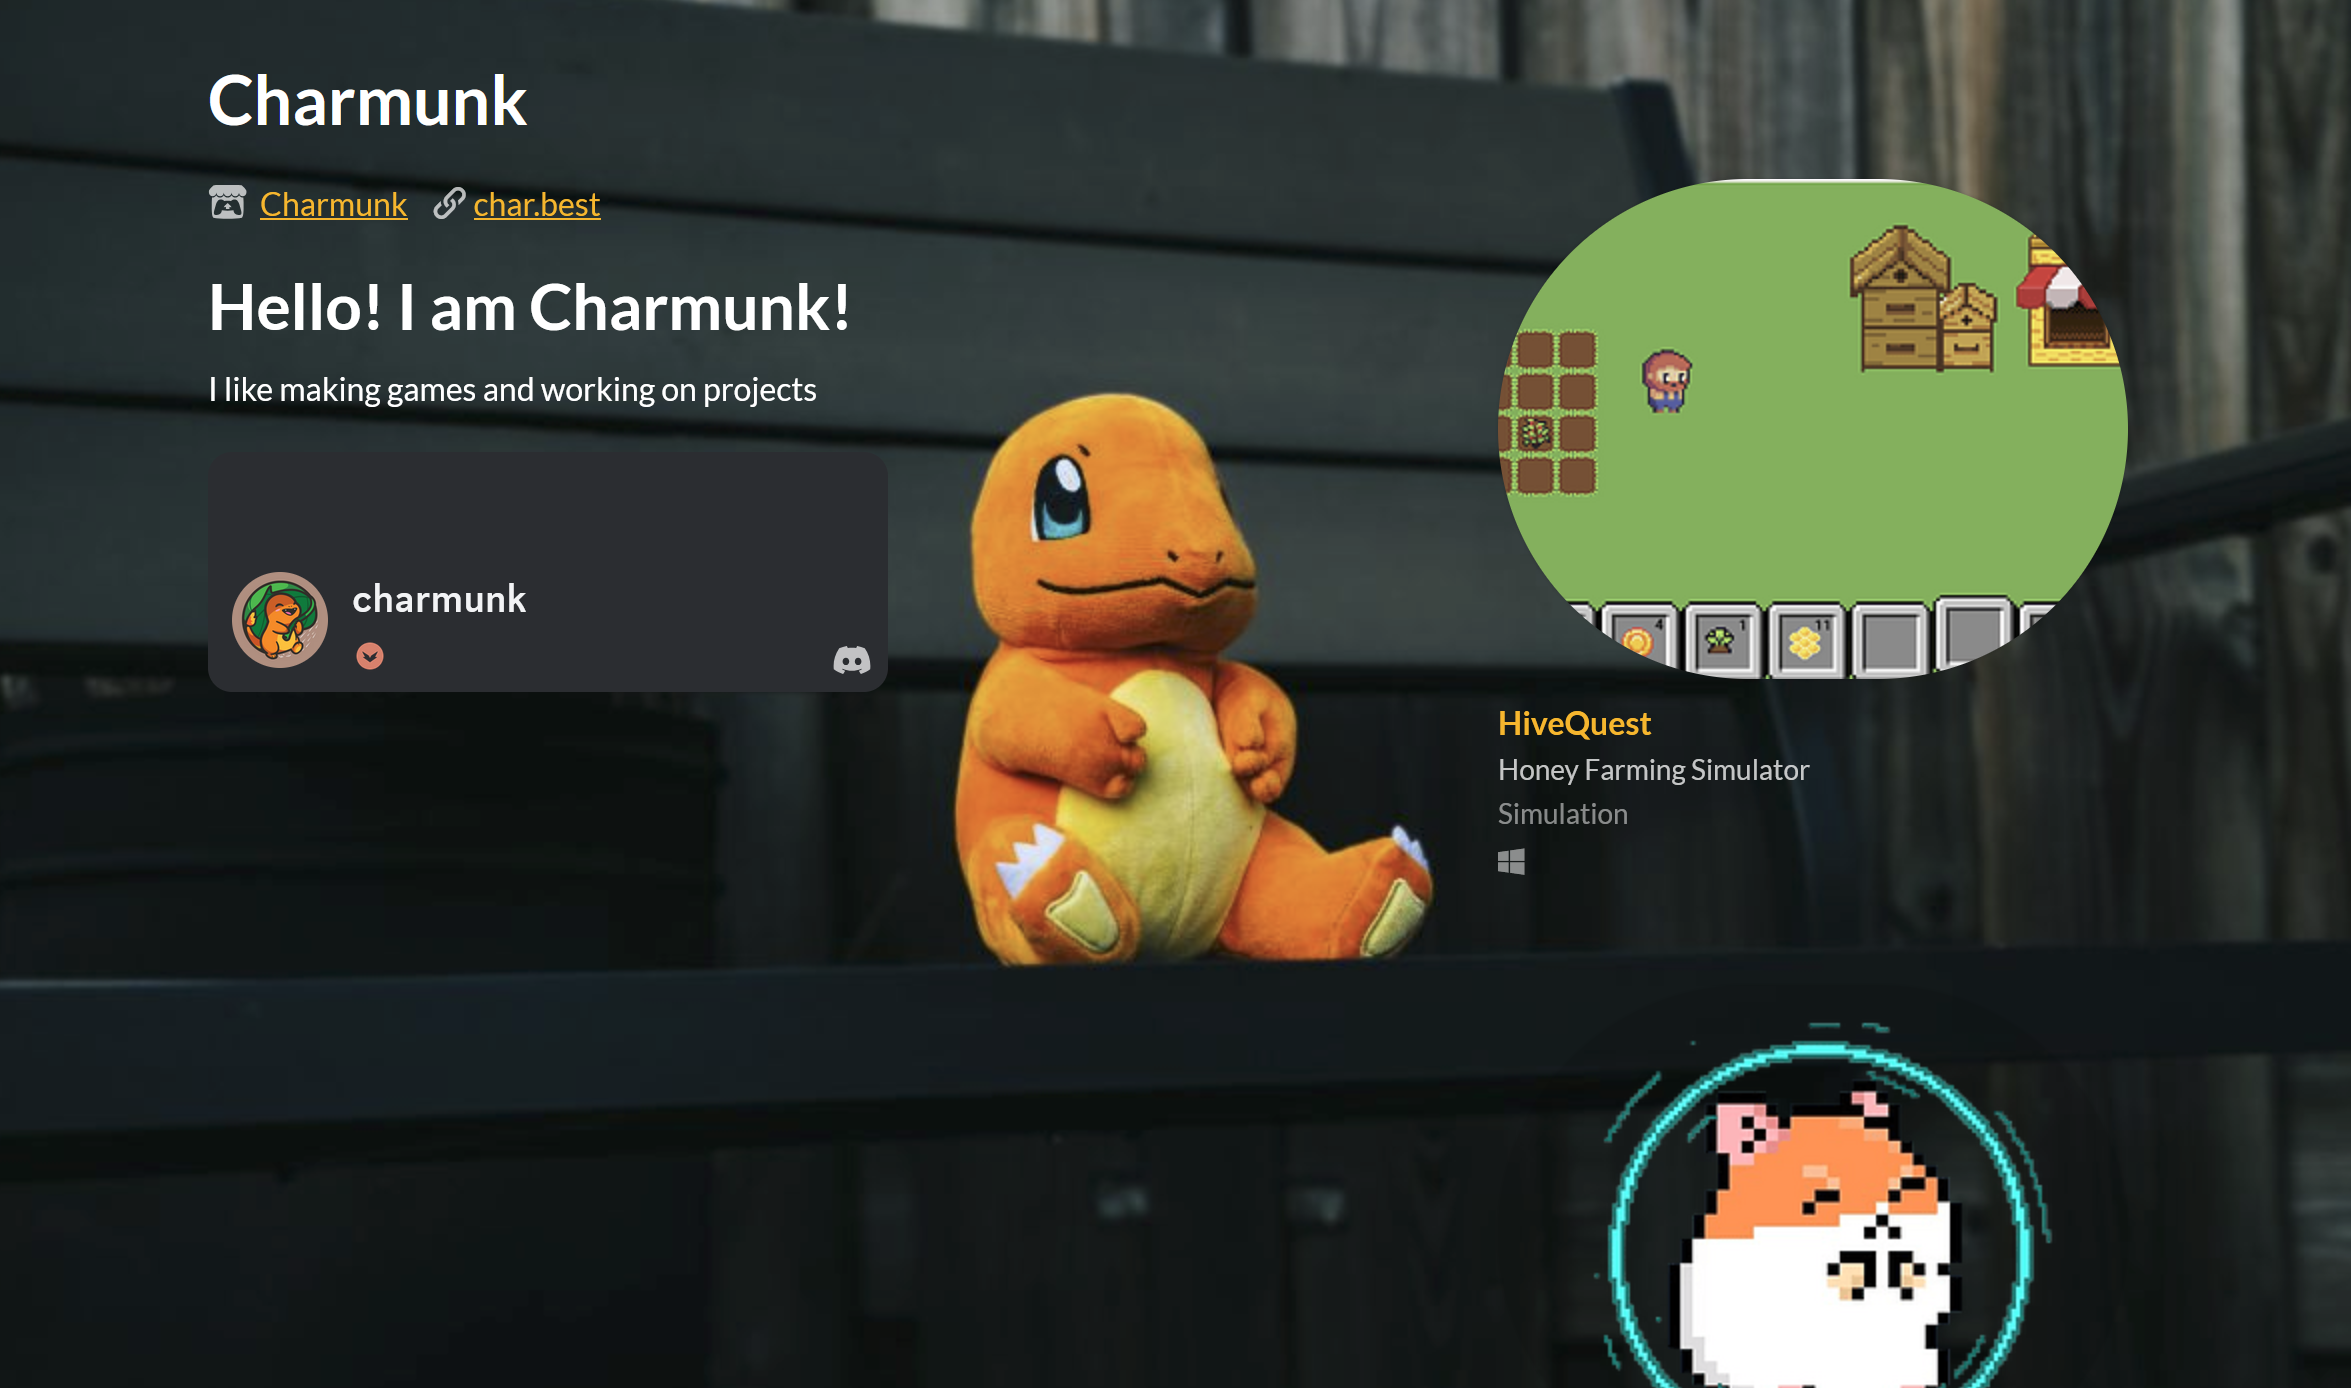
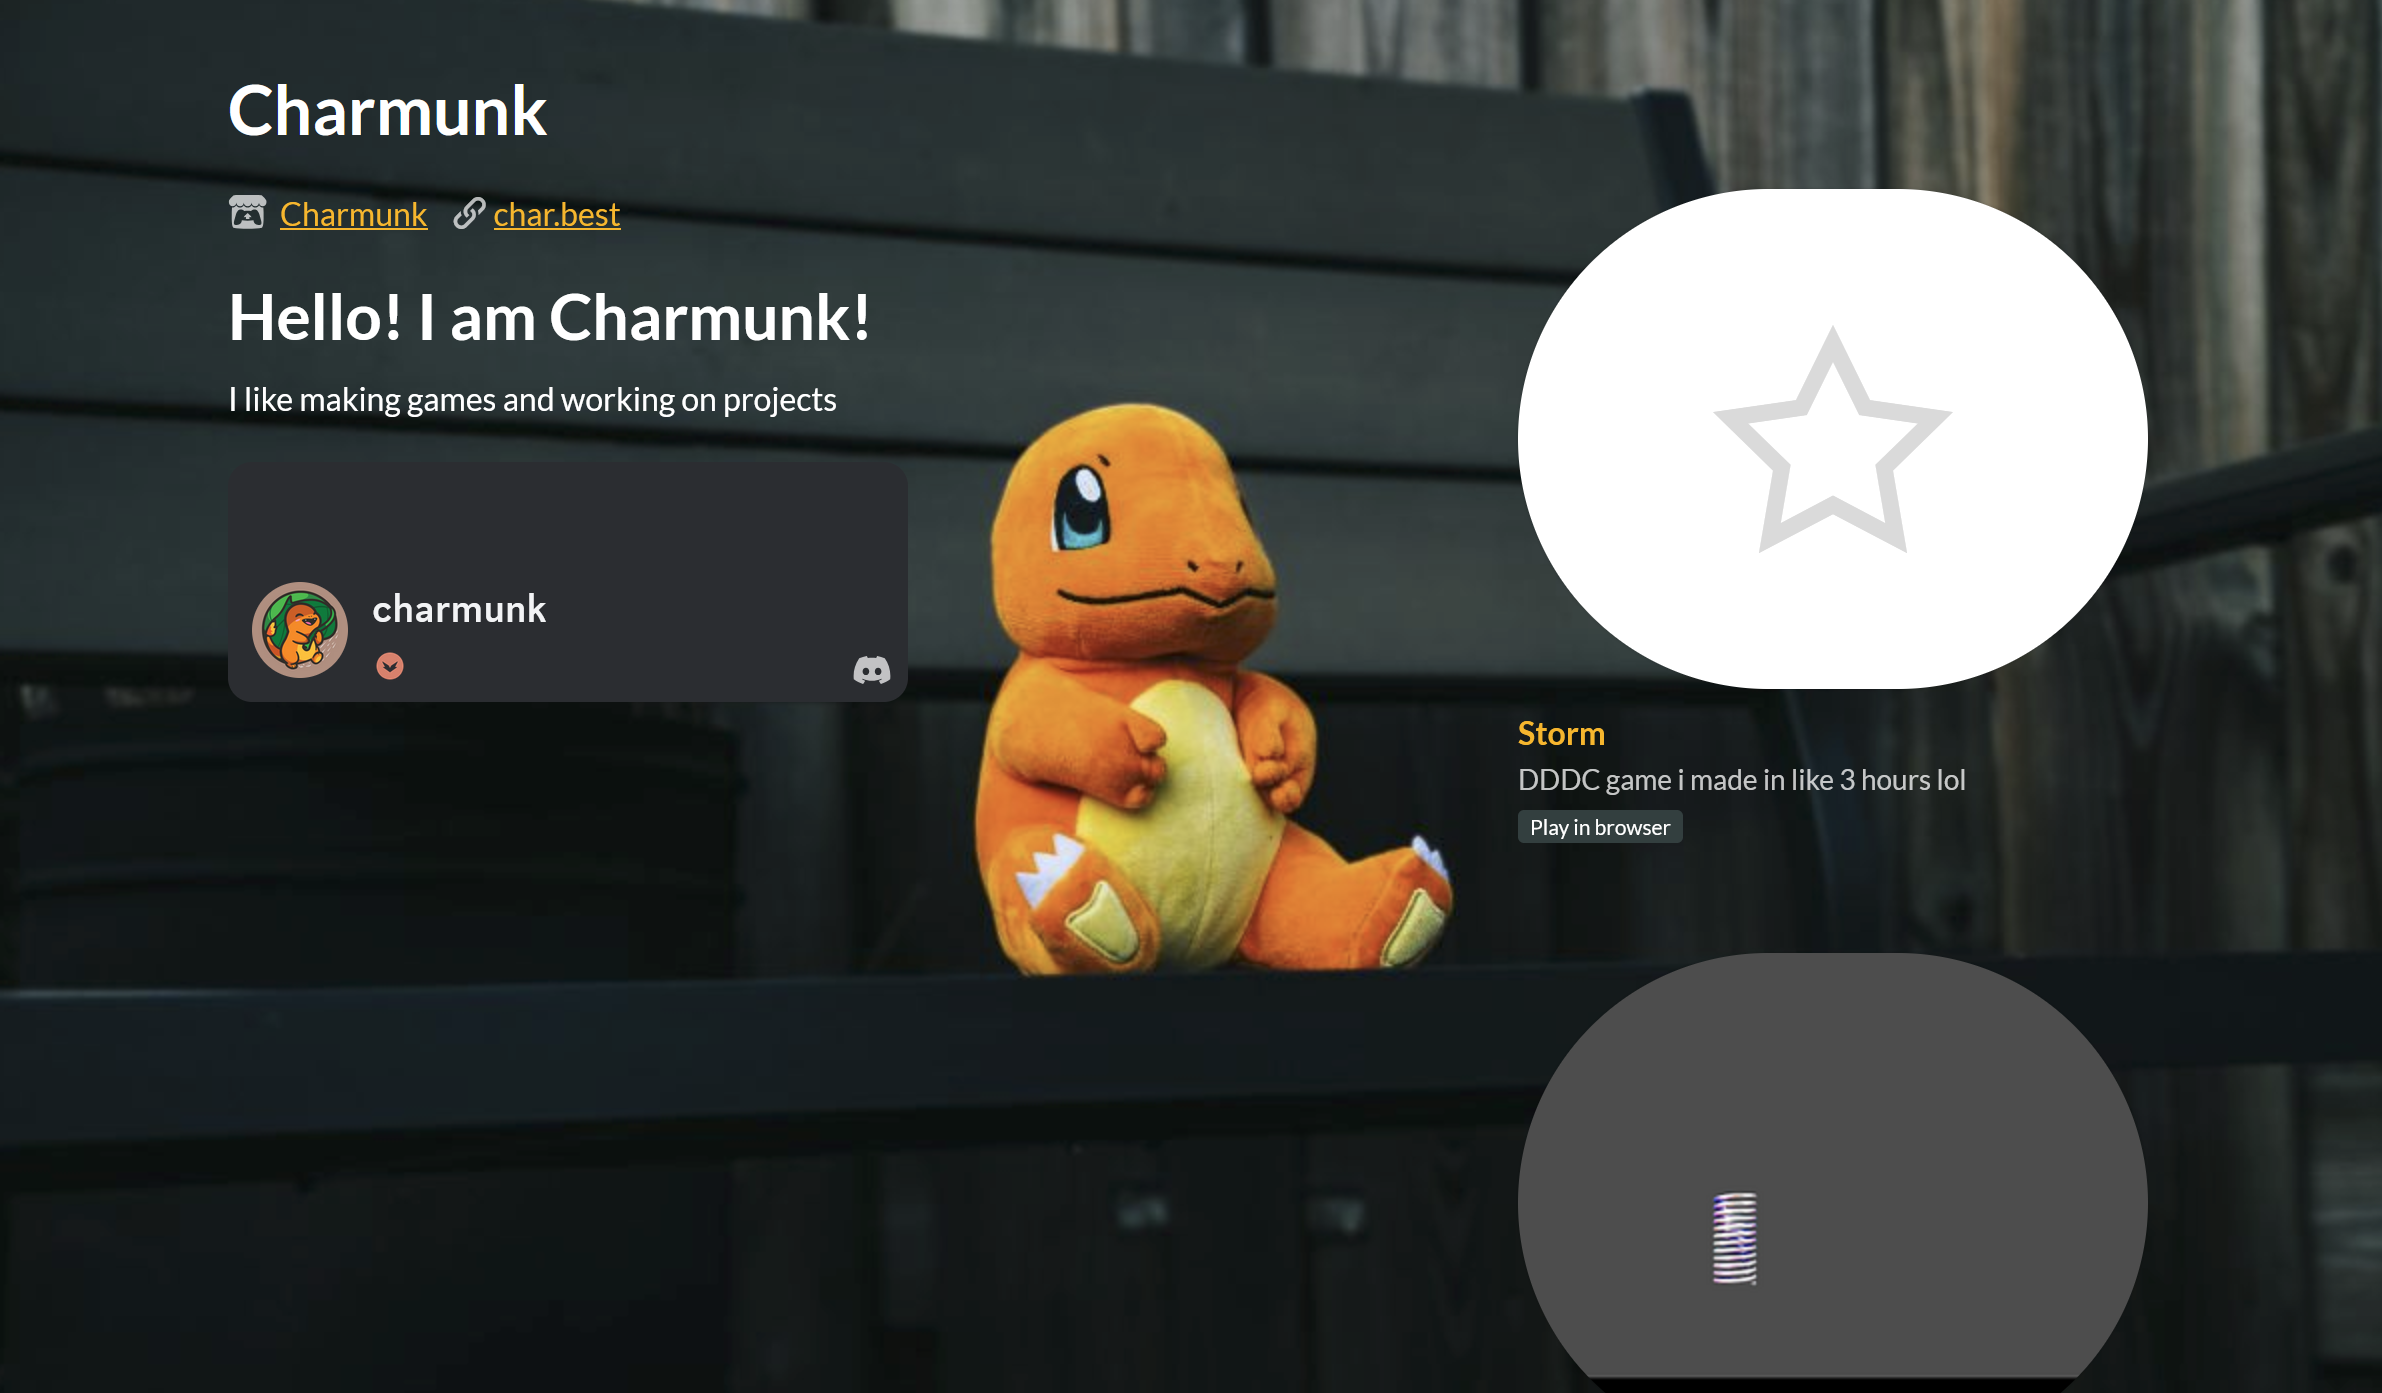
pokemon friends

diff --git a/src/lib/components/ArticleHeader.svelte b/src/lib/components/ArticleHeader.svelte
@@ -1,5 +1,4 @@
 <script>
-	import { onMount } from 'svelte';
 
 	export let title = "";
 	export let author = "";
@@ -12,26 +11,30 @@
 
 	let headings = [];
 	let estimatedReadTime = 0;
+	let initialized = false;
 
-	onMount(() => {
-		if (toc && content) {
-			const headingElements = content.querySelectorAll('h1, h2, h3, h4, h5, h6');
-			headings = Array.from(headingElements).map((el, i) => ({
-				id: el.id || `heading-${i}`,
-				text: el.textContent,
-				level: parseInt(el.tagName.charAt(1))
-			}));
-			headingElements.forEach((el, i) => {
-				if (!el.id) el.id = `heading-${i}`;
-			});
-		}
+	$: if (content && !initialized) {
+		initialized = true;
+		setTimeout(() => {
+			if (toc && content) {
+				const headingElements = content.querySelectorAll('h1, h2, h3, h4, h5, h6');
+				headings = Array.from(headingElements).map((el, i) => ({
+					id: el.id || `heading-${i}`,
+					text: el.textContent,
+					level: parseInt(el.tagName.charAt(1))
+				}));
+				headingElements.forEach((el, i) => {
+					if (!el.id) el.id = `heading-${i}`;
+				});
+			}
 
-		if (readTime && content) {
-			const text = content.textContent || '';
-			const wordCount = text.split(/\s+/).filter(word => word.length > 0).length;
-			estimatedReadTime = Math.ceil(wordCount / 200);
-		}
-	});
+			if (readTime && content) {
+				const text = content.textContent || '';
+				const wordCount = text.split(/\s+/).filter(word => word.length > 0).length;
+				estimatedReadTime = Math.ceil(wordCount / 200);
+			}
+		}, 0);
+	}
 
 	function formatDate(dateStr) {
 		const d = new Date(dateStr);
@@ -80,12 +83,12 @@
 
 <style>
 	.article-header {
-		margin-bottom: 2rem;
+		margin-bottom: 1.5rem;
 	}
 
 	.title {
-		margin: 0 0 1rem 0;
-		font-size: 2.5rem;
+		margin: 0.5rem 0 1rem 0;
+		font-size: 1.75rem;
 		font-weight: 700;
 		color: #f2eecf;
 	}
@@ -94,7 +97,7 @@
 		display: flex;
 		align-items: center;
 		gap: 1rem;
-		margin-bottom: 1rem;
+		margin-bottom: 0.5rem;
 		color: #f2eecf;
 		font-size: 0.9rem;
 	}
@@ -118,7 +121,7 @@
 
 	.description {
 		font-size: 1.1rem;
-		color: #f2eecf;
+		color: #a28d88;
 		margin: 0;
 		line-height: 1.6;
 	}

diff --git a/src/lib/components/Mew.svelte b/src/lib/components/Mew.svelte
@@ -1,15 +1,20 @@
 <script>
+	import { mewVisible } from '$lib/stores/mewVisible.js';
+
 	let hovering = false;
 </script>
 
-<div
-	class="image-container"
-	on:mouseenter={() => (hovering = true)}
-	on:mouseleave={() => (hovering = false)}
->
-	<img src="/mew.png" alt="Mew" class:hovering />
-	<div class="glow"></div>
-</div>
+{#if $mewVisible}
+	<button
+		class="image-container"
+		on:mouseenter={() => (hovering = true)}
+		on:mouseleave={() => (hovering = false)}
+		on:click={() => mewVisible.set(false)}
+	>
+		<img src="/mew.png" alt="Mew" class:hovering />
+		<div class="glow"></div>
+	</button>
+{/if}
 
 <style>
 	.image-container {
@@ -19,6 +24,10 @@
 		width: 35%;
 		height: 100vh;
 		overflow: hidden;
+		border: none;
+		padding: 0;
+		background: none;
+		cursor: pointer;
 	}
 
 	.image-container::after {
@@ -69,4 +78,5 @@
 			opacity: 1;
 		}
 	}
+
 </style>

diff --git a/src/routes/page/[page]/+page.svelte b/src/routes/page/[page]/+page.svelte
@@ -1,14 +1,17 @@
 <script>
 	import Mew from '$lib/components/Mew.svelte';
+	import { mewVisible } from '$lib/stores/mewVisible.js';
 
 	export let data;
 </script>
 
 <div class="container">
-	<div class="mew-panel">
-		<Mew />
-	</div>
-	<div class="content">
+	{#if $mewVisible}
+		<div class="mew-panel">
+			<Mew />
+		</div>
+	{/if}
+	<div class="content" class:centered={!$mewVisible}>
 		{#if data.Content}
 			<svelte:component this={data.Content} />
 		{:else}
@@ -44,14 +47,22 @@
 		margin-bottom: 1%;
 	}
 
+	.content.centered {
+		width: 60%;
+		margin-left: auto;
+		margin-right: auto;
+	}
+
 	@media (max-width: 768px) {
 		.mew-panel {
 			display: none;
 		}
 
-		.content {
+		.content,
+		.content.centered {
 			width: 100%;
 			margin-left: 0;
+			margin-right: 0;
 		}
 	}
 </style>

diff --git a/src/routes/+page.svelte b/src/routes/+page.svelte
@@ -1,13 +1,16 @@
 <script>
 	import Mew from '$lib/components/Mew.svelte';
 	import HomeContent from '$lib/content/home.svx';
+	import { mewVisible } from '$lib/stores/mewVisible.js';
 </script>
 
 <div class="container">
-	<div class="mew-panel">
-		<Mew />
-	</div>
-	<div class="content">
+	{#if $mewVisible}
+		<div class="mew-panel">
+			<Mew />
+		</div>
+	{/if}
+	<div class="content" class:centered={!$mewVisible}>
 		<HomeContent />
 	</div>
 </div>
@@ -39,14 +42,22 @@
 		margin-bottom: 1%;
 	}
 
+	.content.centered {
+		width: 60%;
+		margin-left: auto;
+		margin-right: auto;
+	}
+
 	@media (max-width: 768px) {
 		.mew-panel {
 			display: none;
 		}
 
-		.content {
+		.content,
+		.content.centered {
 			width: 100%;
 			margin-left: 0;
+			margin-right: 0;
 		}
 	}
 </style>

diff --git a/src/lib/components/Giscus.svelte b/src/lib/components/Giscus.svelte
@@ -18,10 +18,10 @@
 		script.setAttribute('data-mapping', 'specific');
 		script.setAttribute('data-term', name);
 		script.setAttribute('data-strict', '0');
-		script.setAttribute('data-reactions-enabled', '1');
+		script.setAttribute('data-reactions-enabled', '0');
 		script.setAttribute('data-emit-metadata', '0');
 		script.setAttribute('data-input-position', 'bottom');
-		script.setAttribute('data-theme', 'preferred_color_scheme');
+		script.setAttribute('data-theme', 'purple_dark');
 		script.setAttribute('data-lang', 'en');
 		script.crossOrigin = 'anonymous';
 		script.async = true;

diff --git a/src/lib/stores/mewVisible.js b/src/lib/stores/mewVisible.js
@@ -1,0 +1,3 @@
+import { writable } from 'svelte/store';
+
+export const mewVisible = writable(true);
